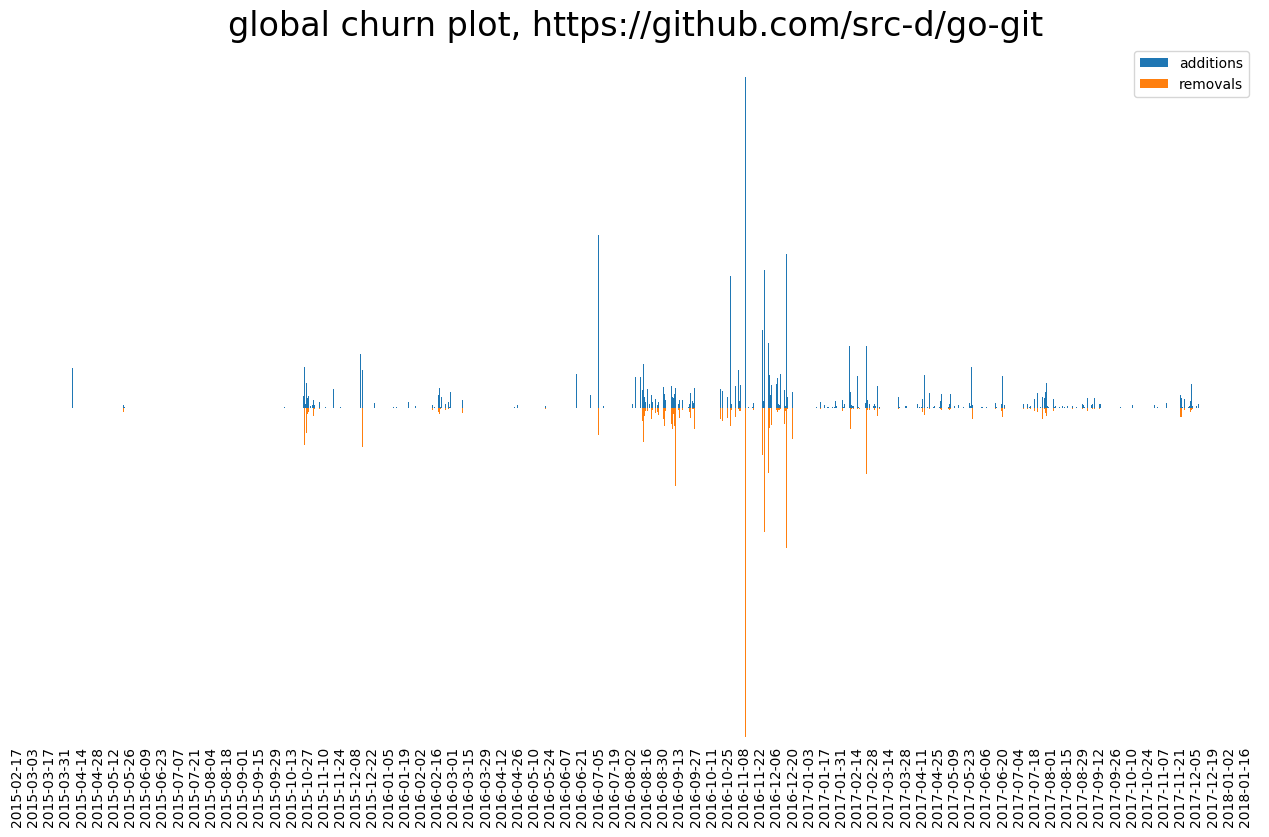
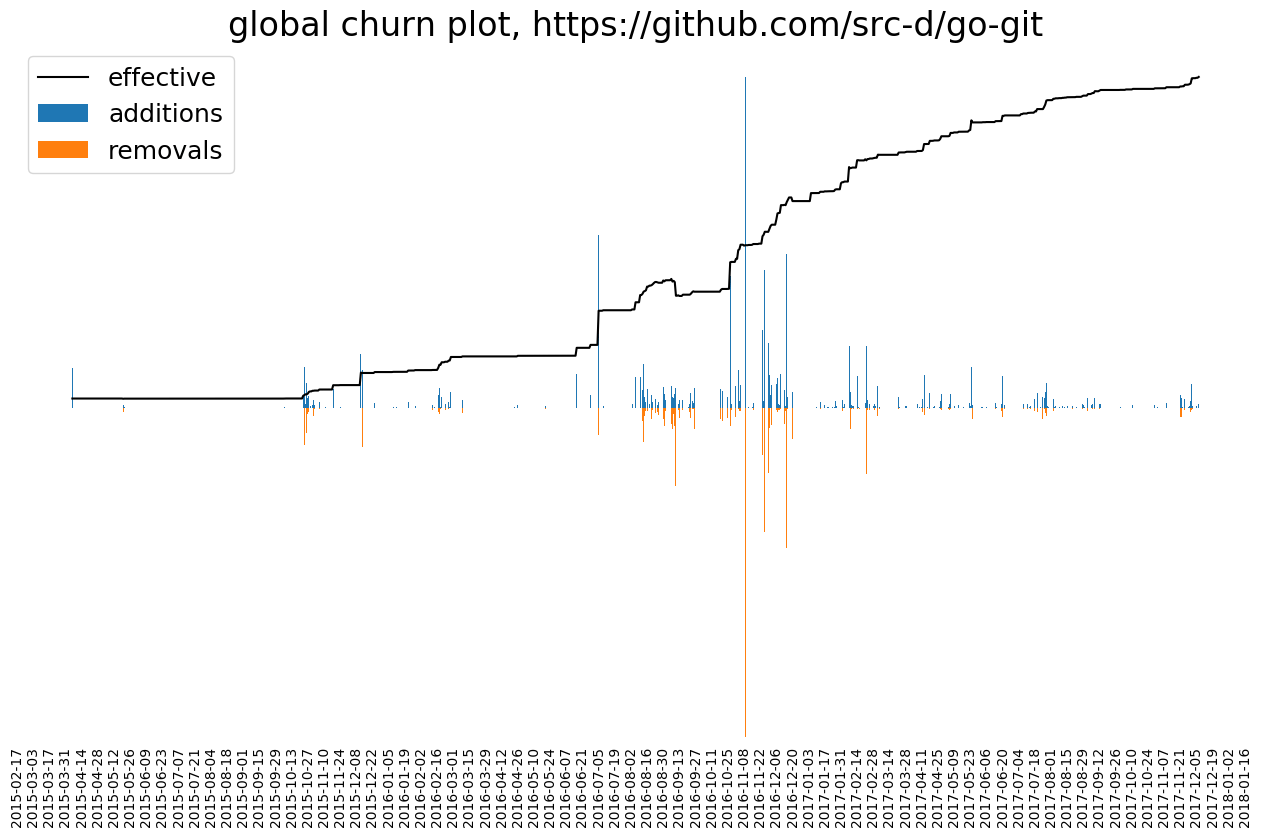
Improve the churn plot

diff --git a/contrib/_plugin_example/plot_churn.py b/contrib/_plugin_example/plot_churn.py
@@ -7,6 +7,7 @@ import yaml
 
 from matplotlib import pyplot
 import matplotlib.dates as mdates
+import numpy
 import pandas
 
 
@@ -48,6 +49,11 @@ def plot_churn(name, data, url, beginTime, endTime, output, fmt, tick_interval):
                           columns=("additions", "removals"))
     df["removals"] = -df["removals"]
     df = df.reindex(pandas.date_range(beginTime, endTime, freq="D"))
+    effective = df["additions"] + df["removals"]
+    effective = effective.cumsum()
+    effective.fillna(method="ffill", inplace=True)
+    scale = numpy.maximum(df.max(), -df.min()).max()
+    effective = effective / effective.max() * scale
     pyplot.figure(figsize=(16, 9))
     for spine in pyplot.gca().spines.values():
         spine.set_visible(False)
@@ -56,8 +62,9 @@ def plot_churn(name, data, url, beginTime, endTime, output, fmt, tick_interval):
     pyplot.tick_params(top="off", bottom="off", left="off", right="off", labelleft="off", labelbottom="on")
     pyplot.bar(df.index, df["additions"], label="additions")
     pyplot.bar(df.index, df["removals"], label="removals")
+    pyplot.plot(df.index, effective, "black", label="effective")
     pyplot.xticks(rotation="vertical")
-    pyplot.legend(loc=1)
+    pyplot.legend(loc=2, fontsize=18)
     pyplot.title("%s churn plot, %s" % (name, url), fontsize=24)
     if not output:
         pyplot.show()
